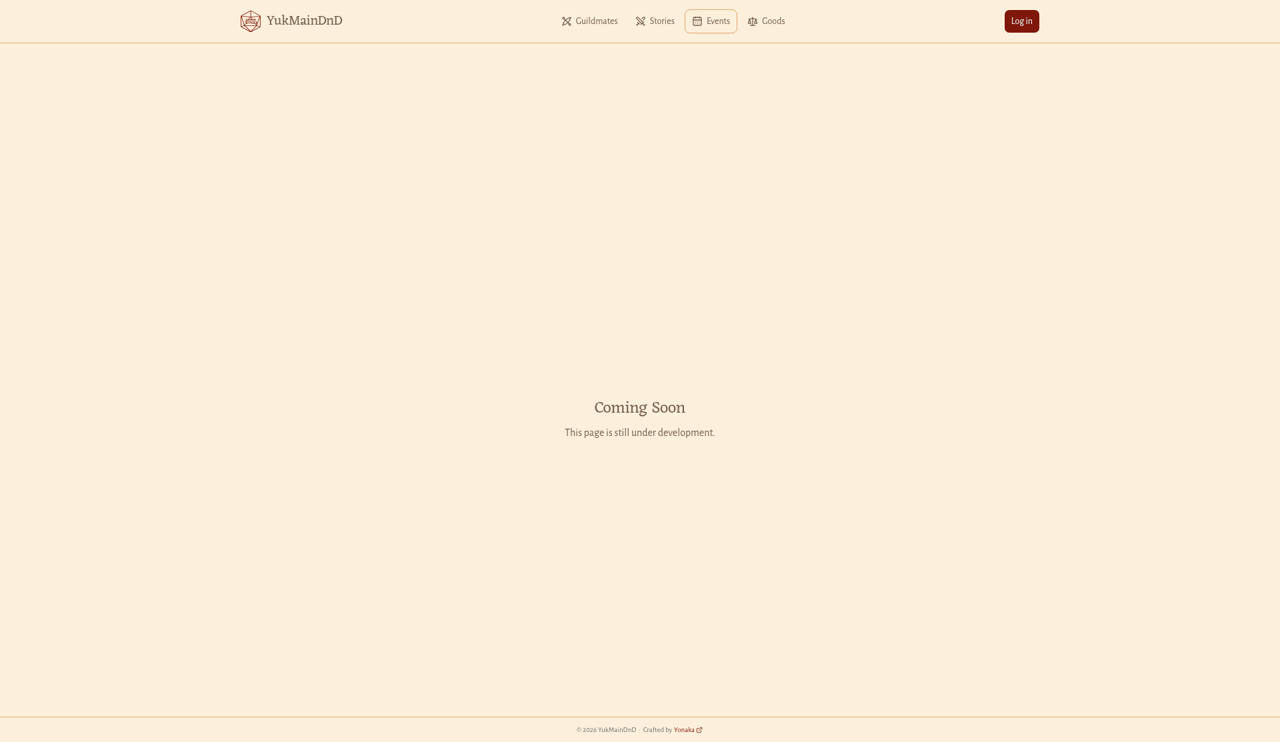
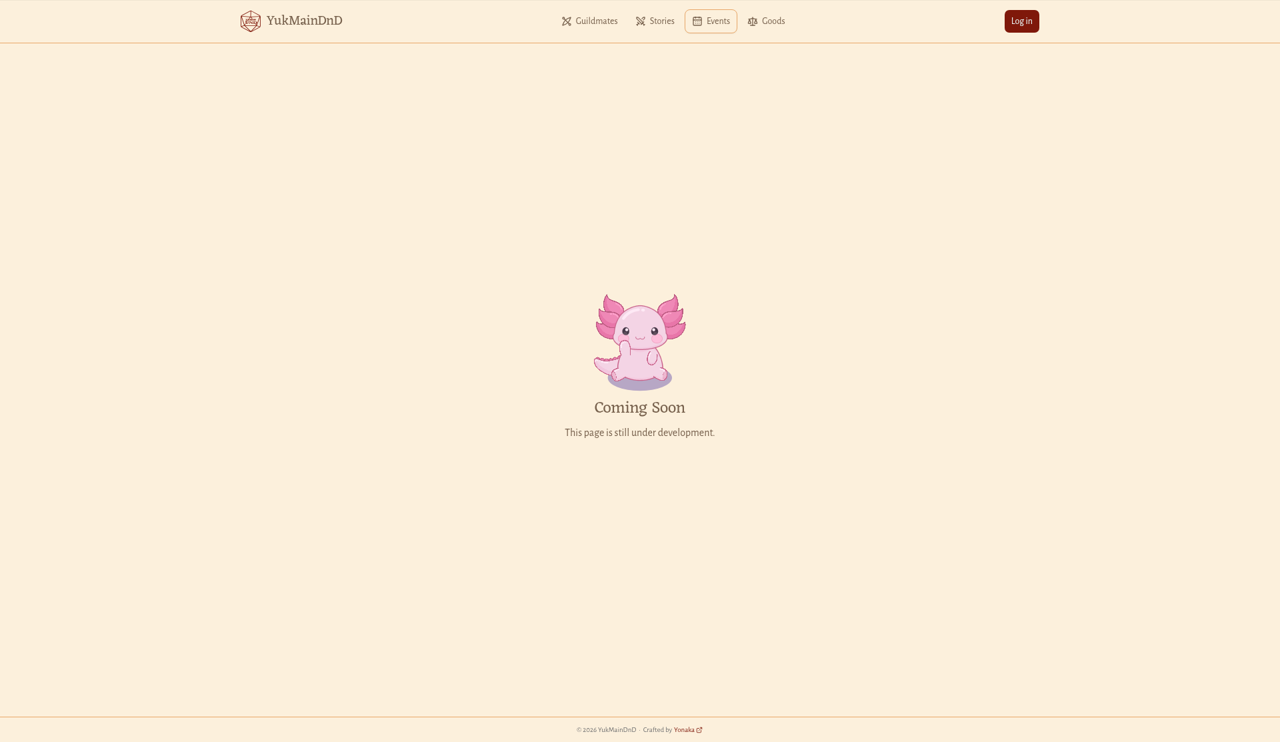
Retake Events screenshot with the Coming Soon animation

Changed region(s): [[0.4688, 0.403, 0.5312, 0.527]]

diff --git a/docs/pengunjung/event-dan-barang.md b/docs/pengunjung/event-dan-barang.md
@@ -8,4 +8,4 @@
 
 **Yang kamu lihat:** halaman bertuliskan **Coming Soon** dan **This page is still under development.** Belum ada yang bisa dilakukan di sini. Cek lagi nanti, ya!
 
-![Halaman Events bertuliskan Coming Soon dan This page is still under development.](../images/pengunjung-event-1.png)
+![Halaman Events dengan animasi axolotl di atas tulisan Coming Soon dan This page is still under development.](../images/pengunjung-event-1.png)
